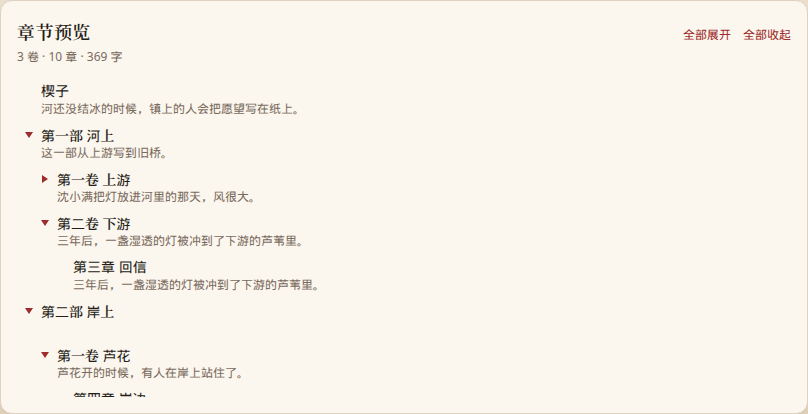
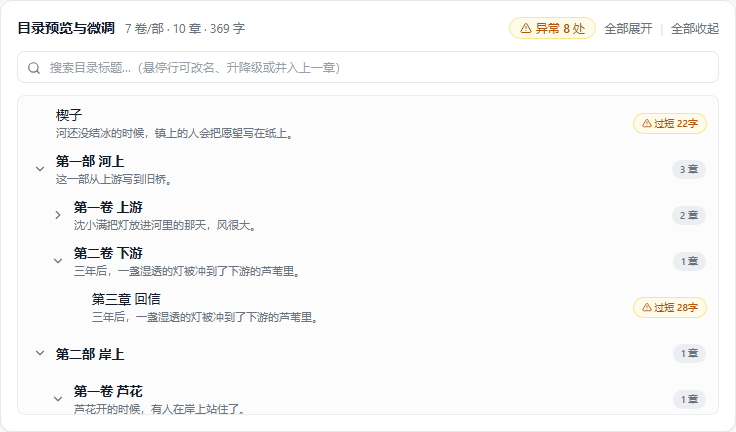
发布墨册 v1.1.1：更新新版界面截图、README、发布说明与版本号

diff --git a/frontend/src/tools/txt2epub/Panel.tsx b/frontend/src/tools/txt2epub/Panel.tsx
@@ -717,7 +717,7 @@ export function Txt2EpubPanel({ meta }: { meta: ToolMeta }) {
                     </Button>
                   </div>
                   <p className="text-[11px] leading-5 text-muted">
-                    默认样式兼容 KOReader 与 Kindle：页边距 5%、行距 1.8、段距 0.45em、首行缩进 2em，不锁死 px 字号，也不加 !important。
+                    默认样式对齐 Calibre：行距与页边距交由阅读器原生调节（填 0 不写死），段距 1em、首行缩进 2em，不锁死 px 字号，也不加 !important。
                   </p>
                 </div>
               ) : null}

diff --git a/README.md b/README.md
@@ -21,7 +21,7 @@
   <a href="#许可证">许可证</a>
 </p>
 
-墨册是一个 Windows 桌面程序。书留在本机，不上传，也不调用 Calibre。当前版本 **v1.1.0**。
+墨册是一个 Windows 桌面程序。书留在本机，不上传，也不调用 Calibre。当前版本 **v1.1.1**。
 
 ## 它能做什么
 
@@ -30,7 +30,7 @@
 | 重新排版 | TXT、EPUB、MOBI、AZW3 抽出正文，纯 Go 重新生成 **EPUB**、**AZW3（Kindle 原生 KF8）**，或同时输出双格式。原文件不动 |
 | 目录识别 | 移植并扩展自 moon 的目录识别：部/卷/章/节多级嵌套、短分卷（「卷一」「上卷/下卷」等，自动校验后续章节防误判）、重复卷号、日期前缀、番外与完本感言；内置常用正则预设 |
 | 目录微调 | 支持搜索目录、章节字数统计与异常章节标红筛选；悬停单条目录可改名、升降级或并入上一章，随时一键还原 |
-| 排版细节 | 可选空分卷页样式（常规标题页 / 中式分卷扉页 / 不单独成页直跳首章）、书内目录页（默认开启）、目录中是否显示「封面」项（默认不显示）；正文沿用 moon 风格（页边距 5%，行距 1.8，段距 0.45em，首行缩进 2em，标题用 h1，均可调） |
+| 排版细节 | 可选空分卷页样式（常规标题页 / 中式分卷扉页 / 不单独成页直跳首章）、书内目录页（默认开启）、目录中是否显示「封面」项（默认不显示）；正文默认对齐 Calibre（行距与页边距交由阅读器原生调节、段距 1em、首行缩进 2em，标题用 h1，均可按需自定义） |
 | 刮搜 | 起点中文网（默认首选）、豆瓣、微信读书、七猫、晋江、番茄、长佩、潇湘。只在你点「刮搜」时联网 |
 | 进度 | 后台队列，排队、耗时、取消和重试。排版完成的提示留在窗口里，直到你关掉 |
 | 账号 | 登录信息写在程序旁边的 `data\accounts`，默认明文，便于整夹搬走。可选仅本机 Windows 用户可解密 |
@@ -40,7 +40,7 @@
 
 需要系统里已有的 [WebView2](https://developer.microsoft.com/microsoft-edge/webview2/)。Windows 11 一般已经带了。程序不附带 WebView2 安装包。
 
-1. 从 [Releases](https://github.com/vvkis/moce/releases/latest) 下载 `墨册-portable.zip`（v1.1.0）。
+1. 从 [Releases](https://github.com/vvkis/moce/releases/latest) 下载 `墨册-portable.zip`（v1.1.1）。
 2. 解压整个「墨册」文件夹。不要只拿出里面的 exe。
 3. 双击 `墨册.exe`。
 

diff --git a/RELEASE_NOTES.md b/RELEASE_NOTES.md
@@ -1,25 +1,18 @@
-# 墨册 v1.1.0
+# 墨册 v1.1.1
 
 ## 主要更新
 
-### 新增 AZW3（Kindle KF8）纯 Go 输出
-- 新增纯 Go 实现的 AZW3（KF8）生成引擎，不依赖 Calibre。
-- 支持输出 **EPUB**、**AZW3（Kindle 原生 KF8）**，或**同时生成双格式**。
-- 原生 EPUB 重排自动防覆盖原文件，并自动跳过旧目录页与重复封面页。
+### AZW3（Kindle 原生 KF8）兼容性彻底修复
+- 按 Calibre `writer8` 规范完善 AZW3 生成：4096 字节记录对齐、TBS 索引、标准 `P-//*[@aid='...']` Chunk 选择器与广度优先 NCX 目录索引。
+- 补齐 `extra_data_flags=1` 多字节尾标（同步修正 `reflow/mobi` 尾标位序）以及 EXTH 116 / 528 与 8192B 头部填充。
+- 封面与缩略图自动规范化为 JFIF JPEG，修复 Kindle 原生系统打开报错与书架封面不显示的问题。
 
-### 目录识别与排版优化
-- 默认目录识别新增**短分卷标题**支持（如「卷一 初入江湖」「卷12」「上卷/下卷」等），并校验后续章节防误判，避免正文短句被误拆为卷。
-- 修复多项目录与层级问题：自定义正则复用层级清洗流水线、修正 `toc.ncx` 的 `dtb:depth`、多级卷数统计、「完本感言」顶层归属以及短句防误判。
-- 新增**空分卷页样式**选项：常规标题页 / 中式分卷扉页（居中 + 章节数）/ 不单独成页（目录直跳该卷首章）。
-- 调整目录默认选项：默认开启「生成书内目录页」，默认关闭「目录中包含『封面』项」（封面页与书架封图不受影响）。
+### 默认排版间距对齐 Calibre
+- 行距与页边距默认改为 `0`（不写死样式，交给 Kindle / 阅读器原生排版并支持实时调节，避免双重留白）。
+- 段间距默认调整为 `1em`（同段紧密、段间分明），首行缩进保持 `2em`，各项仍可在「高级正则与版式」中自定义。
 
-### 现代工作台界面与目录微调
-- 零新增依赖升级为轻量化工作台界面，内置常用章节正则预设。
-- 目录预览新增**关键词搜索**、**章节字数统计**与**异常章节标红筛选**。
-- 支持在预览列表里悬停行直接微调单条目录：**改名**、**升降级**、**并入上一章**，并可一键还原全部微调。
-
-### 刮搜调整
-- 刮搜默认首选书源调整为**起点中文网**。
+### 文档与界面截图更新
+- 同步更新全部新版现代工作台界面截图与 README 说明。
 
 ---
 
